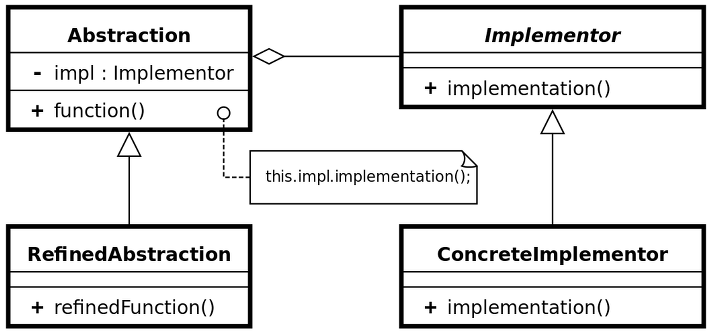
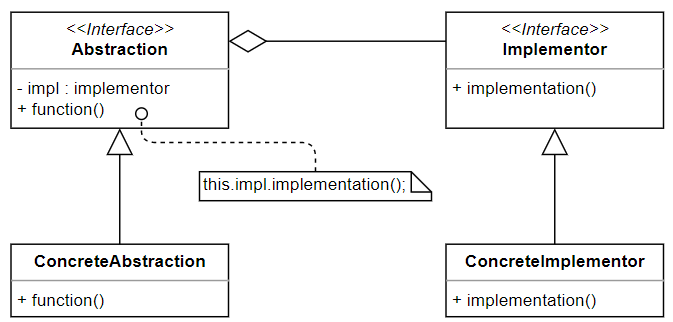
bridge pattern modification

Changed region(s): [[0.0, 0.0, 0.9985, 0.9938]]

diff --git a/bridge/bridge_v1.cpp b/bridge/bridge_v1.cpp
@@ -4,24 +4,19 @@
 #include <string>
 
 /*
-	c++ bridge pattern - version 1
+	c++ bridge design pattern - version 1
 	
-	구현부에서 추상측을 분리하여 Decoupling을 확보하고 서로의 변화가 영향을 주지 않도록 한다.
+	아래 코드는 특징은 아래와 같다.
+	1) CShape을 base 클래스로 하여 CRect, CCircle가 파생클래스이다.
+	2) CEditor는 CShape의 추상클래스 포인터를 가지고 execute함수를 호출하고 있다.
 	
-	아래 코드는 CShape에서 상속받은 자식 클래스를 CEditor에서 이용하는데 전혀 문제가 없어 보인다.
-	하지만 이 구조에서 문제는 무엇일까?
+	CEditor는 전적으로 CShape로부터 파생된 클래스만을 처리할 수 있다.
+
+	만약 다음과 같은 요구사항이 요구된다면 어떻게 해야 하는가?
+	1) 추상클래스인 CShape에 draw()와 save() 함수 이외에 update()함수가 추가되어야 한다면
+	2) 이런식의 함수 추가가 빈번하다면
 	
-	현재 CEditor의 execute 함수는 draw와 save만 사용하고 있다.
-	만약 CEditor의 execute 함수에 upload 기능이 필요하다고 생각해 보자.
-	이럴 경우 문제가 발생한다.
-	
-	CShape의 abstract함수에 upload함수가 추가되어야 하는데, 이런 변경은 SW 유지 보수에 문제가 발생한다.
-	이런 문제를 해결하기 위해서 제안된 패턴이 bridge 패턴이다.
-	
-	bridge라는 이름에서 알 수 있듯이 CEditor가 CShape을 사용하는 대신 CShape과 CEditor 사이에
-	다리 역활을 하는 class를 하나 두는 방식이다.
-	
-	이를 통해서 CShape을 변경하지 않으면서 CEditor의 요구사항을 만족 시켜주는 패턴이다.
+	이런 경우, bridge 패턴을 고려해 볼 수 있다.
 */
 
 class CShape

diff --git a/bridge/bridge_v2.cpp b/bridge/bridge_v2.cpp
@@ -6,9 +6,20 @@
 /*
 	c++ bridge pattern - version 2
 
-	Bridge 패턴을 기준으로 CShape는 implementation(구현부)가 된다. 이 부분의 변경을 막고자 한다.
-	Client에 해당하는 CEditor가 CShape을 바로 사용하는 대신에
-	CEditor와 CShape 사이에 두 클래스간의 변화를 완충해 줄 Bride를 추가한다.
+	bridge_v1.cpp에서 제기된 문제를 해결하기 위해서 bridge pattern을 적용한 코드이다.
+	adaptor pattern과 겹치는 부분이 많기는 하지만, bridge pattern은 클래스 상속이 아닌 객체를 통한 문제해결 방식이다.
+	
+	CShape를 수정하지 않고, 신규 update() 함수를 추가하는 것은
+	abstract class와 concrete class간의 decoupling 방식으로 구현하는 패턴이다.
+	abstract class와 concrete class를 변경하지 않겠다는 의미이다.
+	
+	이를 위해서 신규 bridge class를 추가한다.
+	bridge class는 CShape의 객체의 포인터를 가지고 있어서 기존 기능은 CShape를 통해서 지원한다.
+	신규 기능인 udpate()는 bridge class에 추가하여 대응한다.
+	
+	결국 CShape의 상위 클래스를 클래스 상속이 아닌 객체를 통해서 만들어내는 결과가 된다
+	update()함수까지 필요하지 않는 사용자는 기존 CShape 상속 계보로 구현된 코드를 사용하면 되고,
+	update()까지 필요한 사용자는 bridge 통해서 생성된 객체를 사용하면 된다.
 */
 
 // 구현부

diff --git a/bridge/README.md b/bridge/README.md
@@ -1,5 +1,8 @@
 # bridge pattern
-* implementation에서 abstraction을 분리하여 서로의 변화가 영향을 주지 않도록 설계하는 디자인 패턴이다.
+* abstract class와 concrete class간의 decoupling을 지향하는 패턴
+* 이말은 기존 abstract와 concrete class간의 상속계보를 통해서 신규 기능을 추가하지 않겠다는 의미와 같다.
+* 클래스 상속을 통한 방식이 아닌 객체를 통한 문제 해결 방식이다.
+* adaptor와 다소 겹치는 부분이 있어 보인다.
 
 ## bridge pattern category
 * Structural pattern
@@ -8,13 +11,12 @@
 ![bridge](/docs/images/bridge.png)
 
 ## bridge pattern을 고려할 때
-* 전형적인 클래스 상속을 이용한 디자인 패턴이다.
-* 구현부는 클래스 상속을 통해서 구현된 부분이다. 사용자가 이 구현부를 바로 사용하는 중에
-* 사용자가 구현부 클래스에 존재하지 않는 추가적인 기능을 요구할 경우, 구현부를 고쳐야 하는 부담이 존재한다.
-* 구현부는 그대로 나두고, 구현부와 사용자간의 중간 역활을 수행할 클래스를 추가하는 방식이다.
+* 신규 요구사항 접수로 abstract class에 신규 method을 추가해야 하는 상황이 발생
+* 하지만 abstract class의 method 추가는 위험부담이 크다.
+* 기본 코드를 변경없이 신규 method를 추가해야 하는 경우
 
 ## 구현코드 설명
 * bridge_v1.cpp
-	* 문제가 있는 예제로 이 예제로부터 bridge 패턴을 유도한다.
+	* start code로 전형적인 상속 계보를 통해서 구현된 코드이며, 이 코드의 문제점에 대해서 코드상에 기술하였다.
 * bridge_v2.cpp
-	* bridge 패턴을 이용한 bridge_v1.cpp의 문제점을 개선
+	* bridge pattern을 써야할 상황에 대해서 구현한 코드
